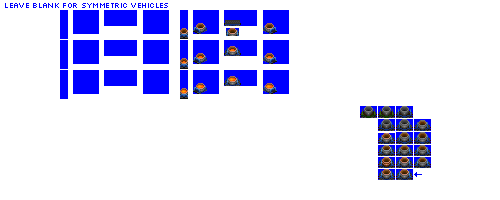
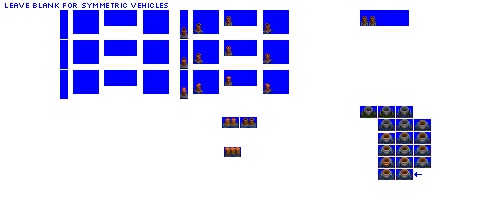
Change: add NG Ingot Carriers (articulated 2-part vehicle, higher capacity than standard)

diff --git a/src/train.py b/src/train.py
@@ -1833,7 +1833,7 @@ class HopperCarRockConsist(HopperCarConsistBase):
 
 class IngotCarConsist(CarConsist):
     """
-    Dedicated car for steel / iron ingots.  No other refits.
+    Dedicated car for steel / iron ingots. A steel mill ingot buggy, not a standard railcar. No other refits.
     """
 
     def __init__(self, **kwargs):
@@ -1848,8 +1848,8 @@ class IngotCarConsist(CarConsist):
         self.weight_factor = 2 # double the default weight
         self._intro_date_days_offset = global_constants.intro_date_offsets_by_role_group['freight_core']
         self._joker = True
-        # CC is swapped randomly (player can't choose), but also swap base livery on flip (player can choose
-        self.allow_flip = True
+        # CC is swapped randomly (player can't choose), player can't flip as vehicle is articulated
+        self.allow_flip = False
         self.suppress_animated_pixel_warnings = True
         # Graphics configuration
         # custom gestalt due to non-standard load sprites, which are hand coloured, not generated
@@ -2607,9 +2607,10 @@ class Train(object):
             utils.echo_message(self.consist.id + ' has units with neither chassis nor length properties set')
 
         if self.chassis is not None:
-            # assume that chassis name format is 'foo_bar_ham_eggs_24px' or similar - true as of April 2019
+            # assume that chassis name format is 'foo_bar_ham_eggs_24px' or similar - true as of Nov 2020
             # if chassis name format changes / varies in future, just update the string slice accordingly, safe enough
-            result = (int(self.chassis[-4:-2]))
+            # splits on _, then takes last entry, then slices to remove 'px'
+            result = int(self.chassis.split('_')[-1][0:-2])
             return int(result / 4)
         else:
             return self._vehicle_length

diff --git a/src/global_constants.py b/src/global_constants.py
@@ -169,7 +169,8 @@ temp_storage_ids = dict(id_of_neighbouring_vehicle = 0, # used to avoid expensiv
                     )
 
 # standard offsets for trains
-default_spritesheet_offsets = {'3': [[-3, -26],  [ -6, -20], [  4, -12], [ 6, -15], [-3, -16], [-16, -15], [-16, -12], [-4, -20]],
+default_spritesheet_offsets = {'2': [[-3, -28],  [ -4, -21], [  8, -12], [ 8, -15], [-3, -16], [-16, -15], [-16, -12], [-4, -21]],
+                               '3': [[-3, -26],  [ -6, -20], [  4, -12], [ 6, -15], [-3, -16], [-16, -15], [-16, -12], [-4, -20]],
                                '4': [[-3, -24],  [ -8, -19], [  0, -12], [ 4, -15], [-3, -16], [-16, -15], [-16, -12], [-4, -19]],
                                '5': [[-3, -22],  [-10, -18], [ -4, -12], [ 2, -15], [-3, -16], [-16, -15], [-16, -12], [-4, -18]],
                                '6': [[-3, -20],  [-12, -17], [ -8, -12], [ 0, -15], [-3, -16], [-16, -15], [-16, -12], [-4, -17]],

diff --git a/src/vehicles/ingot_cars.py b/src/vehicles/ingot_cars.py
@@ -10,7 +10,10 @@ def main():
                                   subtype='U',
                                   base_track_type='NG',
                                   speed=35, # note rare non-standard speed, don't spill hot ingots eh?
-                                  sprites_complete=False)
+                                  sprites_complete=True)
 
     consist.add_unit(type=IngotCar,
-                     chassis='buffers_only_16px')
+                     chassis='buffers_only_ng_8px')
+
+    consist.add_unit(type=IngotCar,
+                     chassis='buffers_only_ng_8px')
